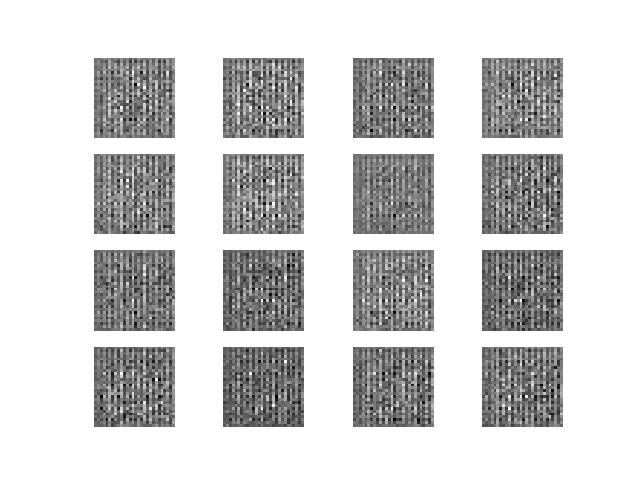
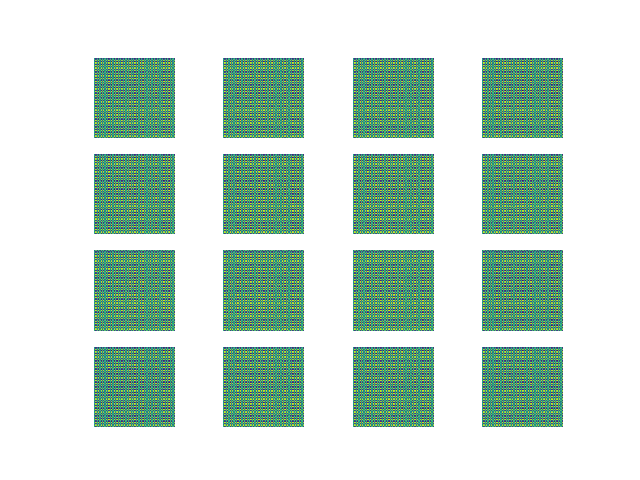
working dcgan for celebA

diff --git a/dcgan_celebA.py b/dcgan_celebA.py
@@ -13,7 +13,8 @@ class DCGAN_CELEB:
         self.img_files = np.array(glob.glob(img_dir+'*.jpg'), dtype=np.str)
         self.num_images = len(self.img_files)
         self.latent_dim = 100
-        self.input_shape = (218, 178, 3)
+        self.input_shape = (224, 224, 3)
+        self.image_size = [224, 224]
         self.batch_size = 32
         self.num_steps = 4000
         self.save_dir = 'generated/'
@@ -28,20 +29,19 @@ class DCGAN_CELEB:
         model.add(BatchNormalization(momentum=0.8))
         model.add(LeakyReLU(alpha=0.2))
         model.add(Reshape((7, 7, 256)))
-        model.add(Conv2DTranspose(128, (5, 5), strides=(1, 1), padding='same', use_bias=False))
+        model.add(Conv2DTranspose(128, (3, 3), strides=(1, 1), padding='same', use_bias=False))
         model.add(BatchNormalization(momentum=0.8))
         model.add(LeakyReLU(alpha=0.2))
-        model.add(Conv2DTranspose(64, (5, 5), strides=(2, 2), padding='same', use_bias=False))
+        model.add(Conv2DTranspose(64, (3, 3), strides=(2, 2), padding='same', use_bias=False))
         model.add(BatchNormalization(momentum=0.8))
         model.add(LeakyReLU(alpha=0.2))
-        model.add(Conv2DTranspose(128, (5, 5), strides=(2, 2), padding='same', use_bias=False))
+        model.add(Conv2DTranspose(128, (3, 3), strides=(2, 2), padding='same', use_bias=False))
         model.add(BatchNormalization(momentum=0.8))
         model.add(LeakyReLU(alpha=0.2))
-        model.add(Conv2DTranspose(256, (5, 5), strides=(2, 2), padding='same', use_bias=False))
+        model.add(Conv2DTranspose(256, (3, 3), strides=(2, 2), padding='same', use_bias=False))
         model.add(BatchNormalization(momentum=0.8))
         model.add(LeakyReLU(alpha=0.2))
-        model.add(Conv2DTranspose(512, (5, 5), strides=(2, 2), padding='same', use_bias=False))
-        model.add(ZeroPadding2D(padding=(2,1)))
+        model.add(Conv2DTranspose(512, (3, 3), strides=(2, 2), padding='same', use_bias=False))
         model.add(BatchNormalization(momentum=0.8))
         model.add(LeakyReLU(alpha=0.2))
         model.add(Conv2DTranspose(self.num_channels, (5, 5), strides=(2, 2), padding='same', use_bias=False, activation='tanh'))
@@ -67,10 +67,12 @@ class DCGAN_CELEB:
         model.add(BatchNormalization(momentum=0.8))
         model.add(LeakyReLU(alpha=0.2))
         model.add(Dropout(0.25))
+        model.add(Conv2D(512, kernel_size=3, strides=1, padding="same"))
+        model.add(BatchNormalization(momentum=0.8))
+        model.add(LeakyReLU(alpha=0.2))
+        model.add(Dropout(0.25))
         model.add(Flatten())
         model.add(Dense(1, activation='sigmoid'))
-
-
         model.summary()
         model = Model(model.inputs, model.outputs)
         return model
@@ -84,17 +86,17 @@ class DCGAN_CELEB:
             )
 
         self.G = self.make_generator_model()
-        # z = Input(shape=(self.latent_dim, ))
-        # img = self.G(z)
-        # self.D.trainable = False # This is important, mention it in blog
-        # validity = self.D(img)
-        # self.AM = Model(z, validity)
-        # self.AM.summary()
-        # self.AM.compile(loss='binary_crossentropy',
-        #     optimizer=optimizer,
-        #     )
-        #
-        # self.D.trainable = True # To avoid all the dirty warnings
+        z = Input(shape=(self.latent_dim, ))
+        img = self.G(z)
+        self.D.trainable = False # This is important, mention it in blog
+        validity = self.D(img)
+        self.AM = Model(z, validity)
+        self.AM.summary()
+        self.AM.compile(loss='binary_crossentropy',
+            optimizer=optimizer,
+            )
+
+        self.D.trainable = True # To avoid all the dirty warnings
 
 
     def train(self):
@@ -125,19 +127,21 @@ class DCGAN_CELEB:
         fig, axes = plt.subplots(4, 4)
         for i, img in enumerate(fake_images):
             r, c = i//4, i%4
-            axes[r, c].imshow(img[:,:,0], cmap='rgb')
+            axes[r, c].imshow(img[:,:,0])
             axes[r, c].axis('off')
-        fig.savefig(self.save_dir+'step_%s.png' %step)
+        fig.savefig(self.save_dir+'step_%s.jpg' %step)
 
 
     def get_real_images_batch(self):
         idx = np.random.randint(0, self.num_images, self.batch_size)
-        img_files =  self.img_files[idx]
-        data =  np.array([np.array(Image.open(file).resize([28, 28], Image.BILINEAR)) for file in img_files])
+        sel_img_files =  self.img_files[idx]
+        data =  np.array([np.array(Image.open(file).resize(self.image_size, Image.BILINEAR))
+                for file in sel_img_files
+                ])
         data = data.astype('float32')/127.5-1
         return data
 
 if __name__=='__main__':
     tf.logging.set_verbosity(tf.logging.ERROR)
     dcgan_celeb = DCGAN_CELEB()
-    # dcgan_celeb.train()
+    dcgan_celeb.train()
